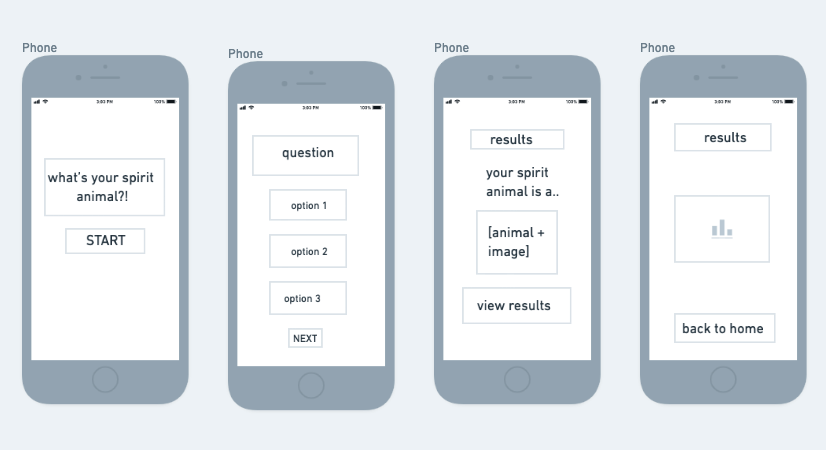
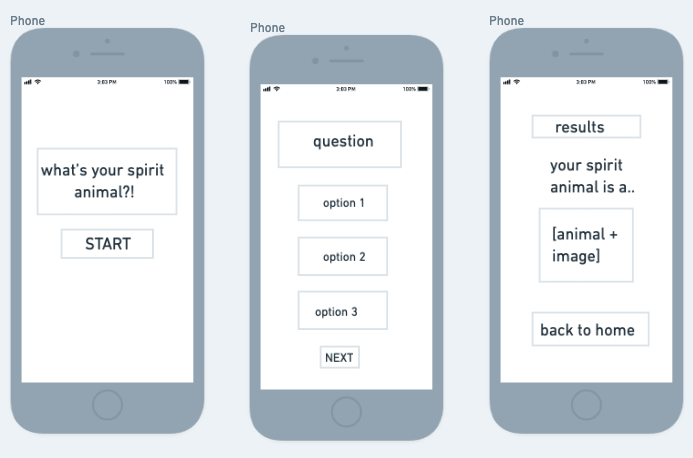
updated readme

diff --git a/README.md b/README.md
@@ -2,7 +2,7 @@
 
 ## Project Description
 
-A game where you'll discover what animal you resemble to the most. The answers to each questions will determine your results. The start button will lead you to the first question while the next button in each question will lead to the next questions and results. The results page will show you a bar graph that will calculate how many people have gotten each animal. The results page will also lead back to the home page.
+A game where you'll discover what animal you resemble to the most. The answers to each questions will determine your results.
 
 ## API and Data Sample
 
@@ -15,29 +15,13 @@ A game where you'll discover what animal you resemble to the most. The answers t
             "fields": {
                 "fourth": "How much sleep do you get?",
                 "first": "Favorite time of the year?",
-                "third": "It is your free day, how do you spend it?",
+                "third": "It is your day-off, how do you spend it?",
                 "second": "Preferred movie genre?"
             },
             "createdTime": "2021-09-16T21:14:32.000Z"
         },
-        {
-            "id": "recV9PMtnPBIaQlMs",
-            "fields": {
-                "animals": "cat",
-                "results": "0"
-            },
-            "createdTime": "2021-09-16T21:14:39.000Z"
-        },
-        {
-            "id": "recGE8AKasrAKztq4",
-            "fields": {
-                "animals": "crab",
-                "results": "0"
-            },
-            "createdTime": "2021-09-16T21:14:39.000Z"
-        }
     ],
-    "offset": "recGE8AKasrAKztq4"
+    "offset": "recpntxbRVK3ypSyz"
     }
 
 ## Wireframes
@@ -59,37 +43,38 @@ A game where you'll discover what animal you resemble to the most. The answers t
 ## Post MVP
 
 - Adding a star rating
+- Bar graph of results
 
 ## Project Schedule
 
-| Day             | Deliverable                                                  | Status     |
-| --------------- | ------------------------------------------------------------ | ---------- |
-| September 16-17 | Wireframes /Airtable /Project Approval                       | Complete   |
-| September 18    | GET airtable Data/ Creating components/ Linking components   | Complete   |
-| September 19    | Linking components/ Working in components                    | Complete   |
-| September 20    | Initial Clickable Model/ Working in components/ MVP          | Complete   |
-| September 21    | CSS & MVP                                                    | Complete   |
-| September 22-23 | More MVP/ More Styling/ Working with POST Data from airtable | Complete   |
-| September 24    | POST airtable Data/ MVP                                      | Incomplete |
-| September 25-26 |                                                              | Incomplete |
-| September 27    | Presentations                                                | Incomplete |
+| Day             | Deliverable                                                | Status     |
+| --------------- | ---------------------------------------------------------- | ---------- |
+| September 16-17 | Wireframes /Airtable /Project Approval                     | Complete   |
+| September 18    | GET airtable Data/ Creating components/ Linking components | Complete   |
+| September 19    | Linking components/ Working in components                  | Complete   |
+| September 20    | Initial Clickable Model/ Working in components/ MVP        | Complete   |
+| September 21    | CSS & MVP                                                  | Complete   |
+| September 22-23 | More MVP/ Styling/ POST request                            | Complete   |
+| September 24    | Working with POST request/ More CSS/ More MVP              | Complete   |
+| September 25-26 | POSTing Data to Airtable                                   | Complete   |
+| September 27    | Presentations                                              | Incomplete |
 
 ## Timeframes
 
 | Component              | Priority | Estimated Time | Time Invested | Actual Time |
 | ---------------------- | :------: | :------------: | :-----------: | :---------: |
 |                        |          |                |               |             |
-| Home Page              |    H     |      4hrs      |      hrs      |     hrs     |
-| Question 1 Component   |    H     |      3hrs      |      hrs      |     hrs     |
-| Question 2 Component   |    H     |      3hrs      |      hrs      |     hrs     |
-| Question 3 Component   |    H     |      3hrs      |      hrs      |     hrs     |
-| Question 4 Component   |    H     |      3hrs      |      hrs      |     hrs     |
-| Options Component      |    H     |      5hrs      |      hrs      |     hrs     |
-| Results Component      |    H     |      5hrs      |      hrs      |     hrs     |
-| View Results Component |    H     |      3hrs      |      hrs      |     hrs     |
-| All Buttons            |    H     |      5hrs      |      hrs      |     hrs     |
-| CSS                    |    H     |      3hrs      |      hrs      |     hrs     |
-| Media Query            |    H     |      3hrs      |      hrs      |     hrs     |
-| Total                  |    H     |     42hrs      |      hrs      |     hrs     |
+| Home Page              |    H     |      4hrs      |     4hrs      |    4hrs     |
+| Question 1 Component   |    H     |      3hrs      |     3hrs      |    3hrs     |
+| Question 2 Component   |    H     |      3hrs      |     3hrs      |    3hrs     |
+| Question 3 Component   |    H     |      3hrs      |     3hrs      |    3hrs     |
+| Question 4 Component   |    H     |      3hrs      |     3hrs      |    3hrs     |
+| Options Component      |    H     |      5hrs      |     5hrs      |    5hrs     |
+| Results Page Component |    H     |      5hrs      |     5hrs      |    5hrs     |
+| Form Component         |    H     |      3hrs      |    1.5hrs     |   1.5hrs    |
+| All Buttons            |    H     |      5hrs      |     8hrs      |    8hrs     |
+| CSS                    |    H     |      3hrs      |      1hr      |     1hr     |
+| Media Query            |    H     |      3hrs      |     2hrs      |    2hrs     |
+| Total                  |    H     |     40hrs      |    38.5hrs    |   38.5hrs   |
 
 ## SWOT Analysis
